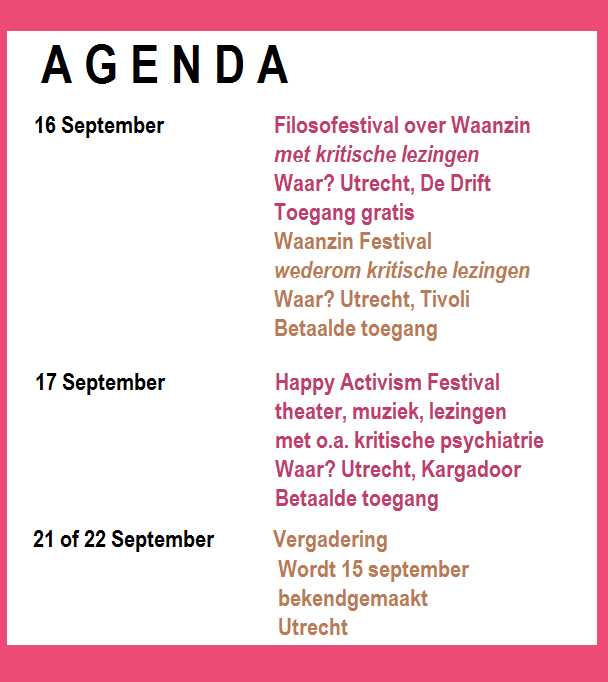
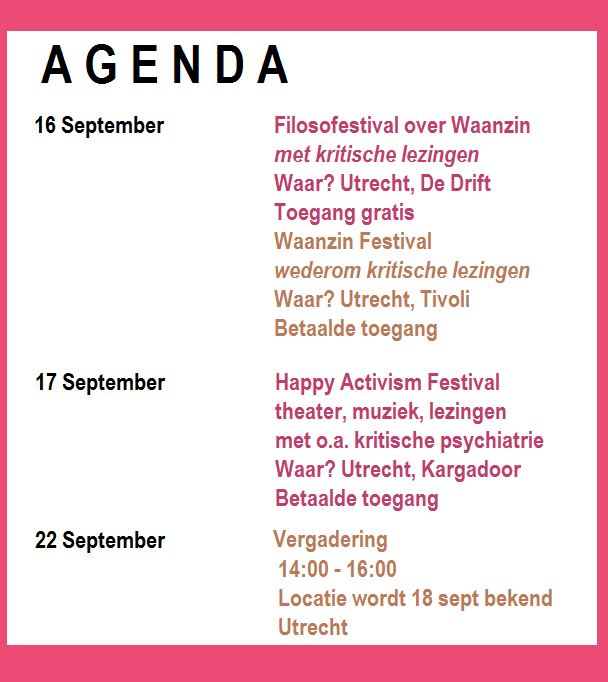
15 sept

Changed region(s): [[0.4375, 0.8006, 0.9062, 0.893], [0.0312, 0.7698, 0.3438, 0.8314]]

diff --git a/resources.html b/resources.html
@@ -89,7 +89,7 @@
 <section class= "middelen1">
 <h2 id="kritischnetwerk">KRITISCH NETWERK</h2>
 <p>Een kritisch <b>netwerk</b> van informele support, van welwillende medemensen die 1 of meer van de volgende dingen zouden willen doen: brieven sturen of bezoeken brengen aan iemand in de gedwongen ggz, willen bemiddelen, een buddy zijn, meedenken vanuit experise (juridische bijvoorbeeld) of een tijdelijke opvangplek bieden. We zijn een lijst aan het opbouwen van dergelijke welwillende medemensen in vele regio's.<br> - <b>Heb jij steun nodig? <a href="contact.html">Mail ons</a> of bel 06 83 86 09 05</b>.
-<br>- <b>Wil jij ook helpen? Stuur ook dan een <a href="contact.html">mailtje</a> of bel 06 85 23 23 32</b>. Je gegevens worden vertrouwelijk behandeld en je kunt met ons bepalen hoe en wanneer jij wilt dat we je contactgegevens doorgeven aan personen die hulp kunnen gebruiken. <b>Dit netwerk kan ook acuut worden ingezet</b>. Als hulper kun je aangeven of (en wanneer) je ook op acute basis ingezet wilt worden of niet.<br><br>
+<br>- <b>Wil jij ook helpen? Stuur ook dan een <a href="contact.html">mailtje</a> of bel 06 85 23 23 32</b>. Je kunt ook aanschuiven bij de open vergadering 22 september (14:00 in Utrecht), <a href="contact.html">laat in dat geval graag even weten</a> dat je komt.</b> <br>Als je meehelpt worden je gegevens vertrouwelijk behandeld en je kunt met ons bepalen hoe en wanneer jij wilt dat we je contactgegevens doorgeven aan personen die hulp kunnen gebruiken. <b>Dit netwerk kan ook acuut worden ingezet</b>. Als hulper kun je aangeven of (en wanneer) je ook op acute basis ingezet wilt worden of niet.<br><br>
 Welwillende medemensen kunnen anderen beter helpen als ze elkaar goed kennen. Dan is er namelijk sprake van vertrouwen, en is het makkelijker om iemand bijvoorbeeld kort op te vangen. Of het ziet er overtuigender uit naar een politieagent of psychiater als een welwillende medemens het woord doet voor een persoon als diegene elkaar al kennen. <b>Om die redenen organiseren wij regelmatig meetups, om alvast kennis te kunnen maken met elkaar. Hou de <a href="https://www.facebook.com/Spreekuur89/">Facebookpagina</a> daarom in de gaten of schrijf je in op de nieuwsbrief. </b>Bij de meetings vervalt ook het onderscheid 'steuner' en 'steunontvanger'.</p>
 </section>
 

diff --git a/index.html b/index.html
@@ -131,7 +131,7 @@
 
 <p>Twee evenementen op <b>16 september</b> in Utrecht vol kritische lezingen: het Filosofestival (12:00-18:00 op de Drift 21 in Utrecht, gratis toegang) en Waanzin Festival. En <b>17 september</b> kritische <a href="http://doetankpeer.nl/">discussies en workshop</a> over sanisme en ableisme, waar Spreekuur 89 zich zal voorstellen.
 
-<p>Donderdag 21 of 22 september vergadering in Utrecht (tba)
+<p>Donderdag 22 september 14:00 vergadering in Utrecht (exacte locatie wordt 18 sept bekendgemaakt)
 <p>Twee evenementen op <b>16 september</b> in Utrecht vol kritische lezingen: het Filosofestival (gratis) en Waanzin Festival. En de dag erna kritische <a href="http://doetankpeer.nl/">discussies en workshop</a> over sanisme en ableisme.
 
 <p>Spreekuur 89 is <a href="https://www.facebook.com/Spreekuur89-169068566996961/">TERUG VAN WEGGEWEEST OP FACEBOOK</a>. Check vanaf eind september ook <a href="https://www.youtube.com/channel/UC64Z8gJXFD3dGCuWrjYuhZQ">ons nieuwe youtube kanaal</a>!
